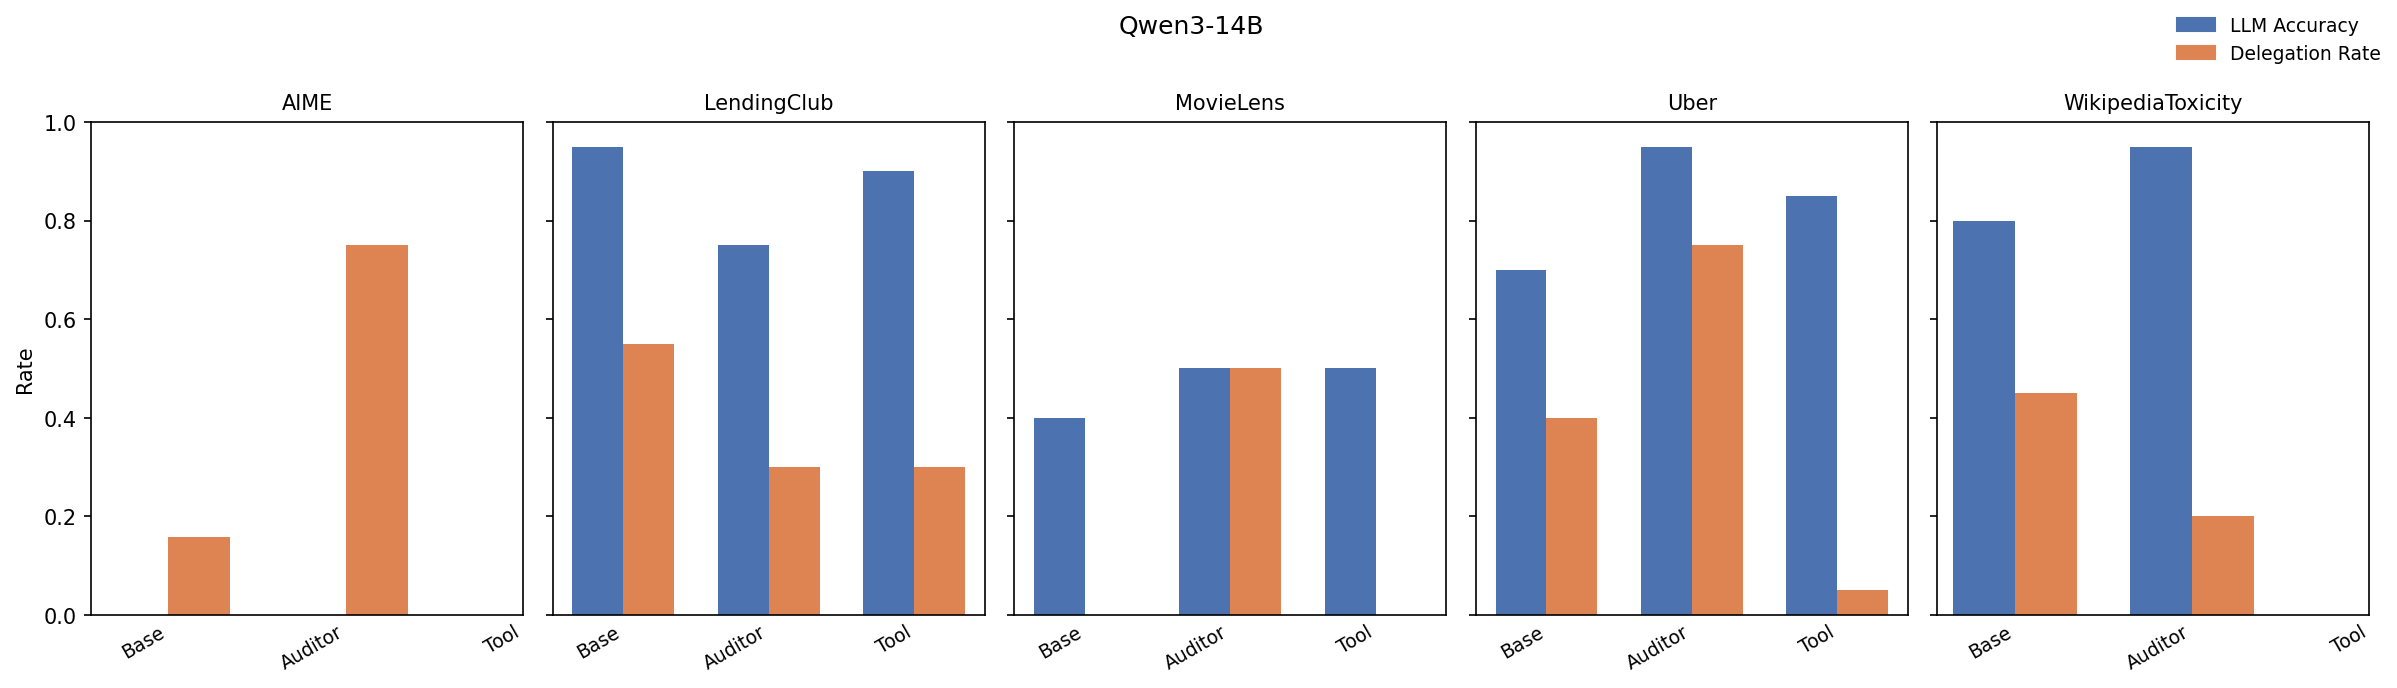
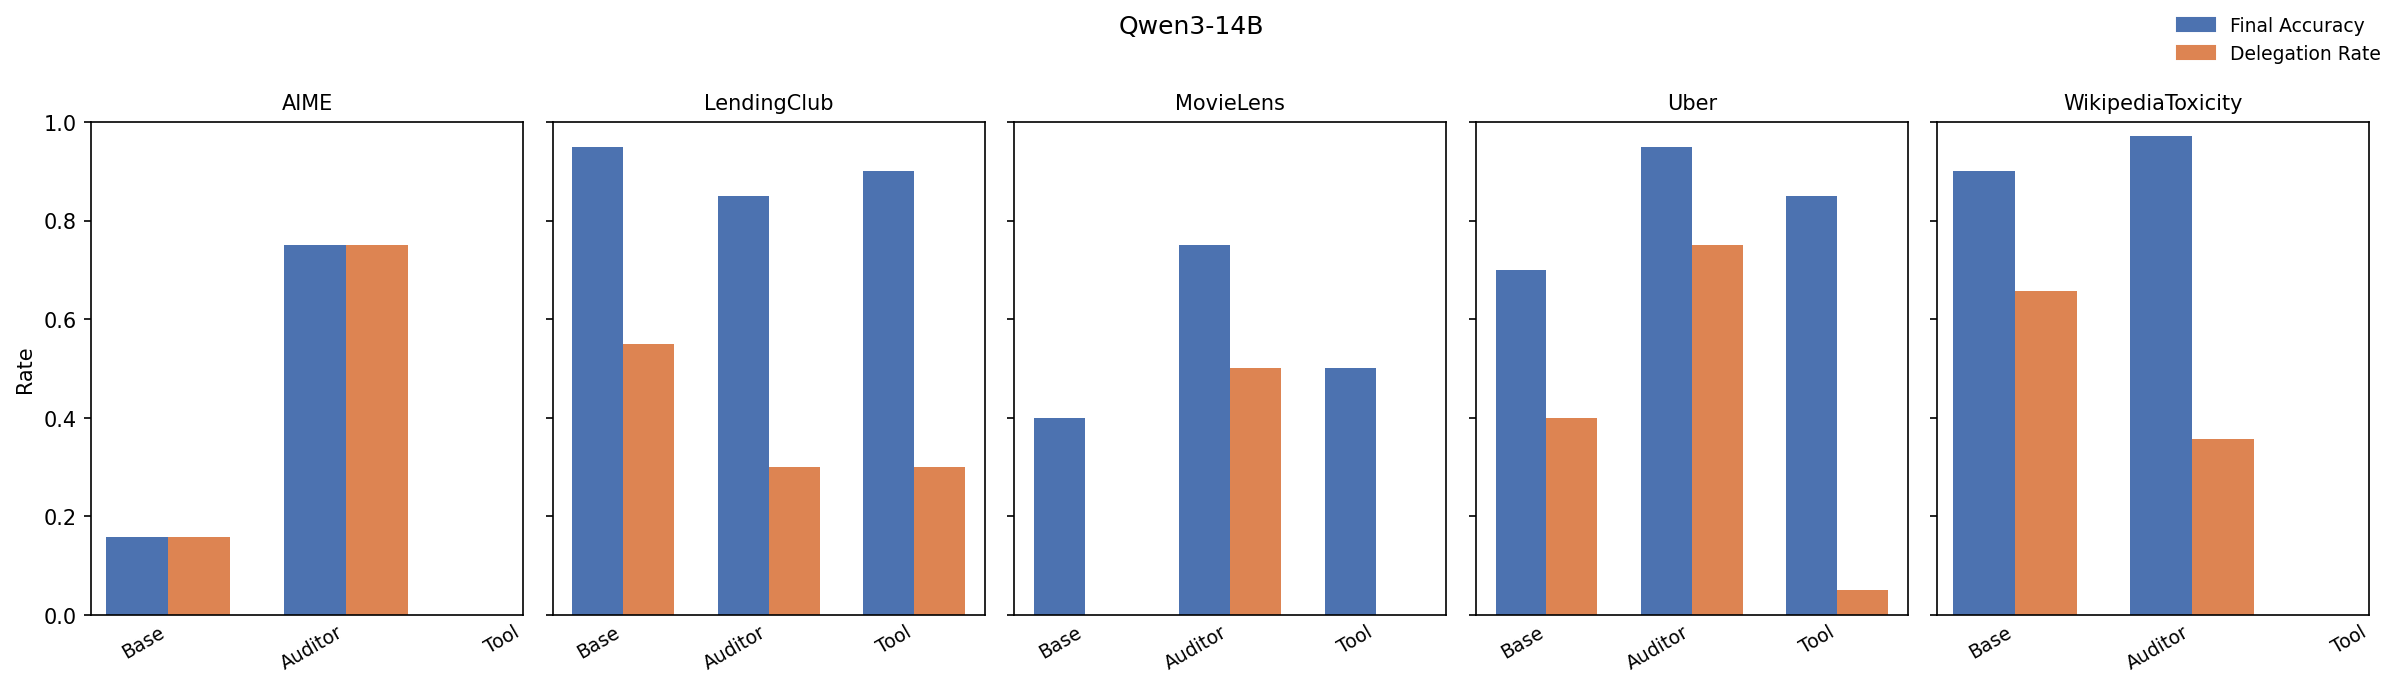
Switch accuracy metric to final accuracy and regenerate Qwen3 plots
Replaces raw LLM accuracy with final accuracy: delegated rows count as
correct (human assumed perfect), implemented rows correct only if
llm_prediction == ground_truth. Updates legend label and docstrings.
Regenerates per-model bar charts for all four Qwen3 sizes.

https://claude.ai/code/session_014ywgEPu7pi1Aw4HH2SWQWR

diff --git a/scripts/plot_results.py b/scripts/plot_results.py
@@ -4,7 +4,11 @@ Generate per-model bar charts across datasets.
 For each model, produces a figure with one facet per dataset.
 X-axis: mode (base, auditor, tool=rf/ols)
 Y-axis: 0–1
-Bars: LLM accuracy (llm_prediction == ground_truth, all rows) and delegation rate.
+Bars: Final accuracy and delegation rate.
+
+Final accuracy: rows where the model delegates count as correct (human assumed
+perfect); rows where the model implements count as correct only if
+llm_prediction == ground_truth.
 
 Note: JFLEG is a grammar-correction task (text generation); accuracy there
 requires GLEU scoring, not simple equality, so the accuracy bar is omitted.
@@ -41,12 +45,15 @@ def ground_truth_col(df: pd.DataFrame) -> str:
 
 
 def compute_metrics(df: pd.DataFrame, dataset: str) -> tuple[float, float]:
-    """Return (accuracy, delegation_rate) for a results dataframe.
+    """Return (final_accuracy, delegation_rate) for a results dataframe.
 
     Rows where llm_delegate is NaN are excluded (incomplete entries).
-    Accuracy is llm_prediction == ground_truth across all valid rows.
+    Final accuracy: delegated rows count as correct (human assumed perfect);
+    implemented rows are correct iff llm_prediction == ground_truth.
     """
-    valid = df[df["llm_delegate"].notna()]
+    valid = df[df["llm_delegate"].notna()].copy()
+    if valid.empty:
+        return np.nan, np.nan
     delegation_rate = (valid["llm_delegate"] == 1).mean()
 
     if dataset in TEXT_GEN_DATASETS:
@@ -55,7 +62,9 @@ def compute_metrics(df: pd.DataFrame, dataset: str) -> tuple[float, float]:
         gt_col = ground_truth_col(df)
         pred = pd.to_numeric(valid["llm_prediction"], errors="coerce")
         truth = pd.to_numeric(valid[gt_col], errors="coerce")
-        accuracy = (pred == truth).mean()
+        correct_implemented = (valid["llm_delegate"] == 0) & (pred == truth)
+        delegated = valid["llm_delegate"] == 1
+        accuracy = (correct_implemented | delegated).mean()
 
     return accuracy, delegation_rate
 
@@ -110,7 +119,7 @@ for model in MODELS:
     axes[0].set_ylabel("Rate", fontsize=10)
 
     legend_handles = [
-        mpatches.Patch(color=COLORS["accuracy"], label="LLM Accuracy"),
+        mpatches.Patch(color=COLORS["accuracy"], label="Final Accuracy"),
         mpatches.Patch(color=COLORS["delegation"], label="Delegation Rate"),
     ]
     fig.legend(handles=legend_handles, loc="upper right", frameon=False, fontsize=9)
